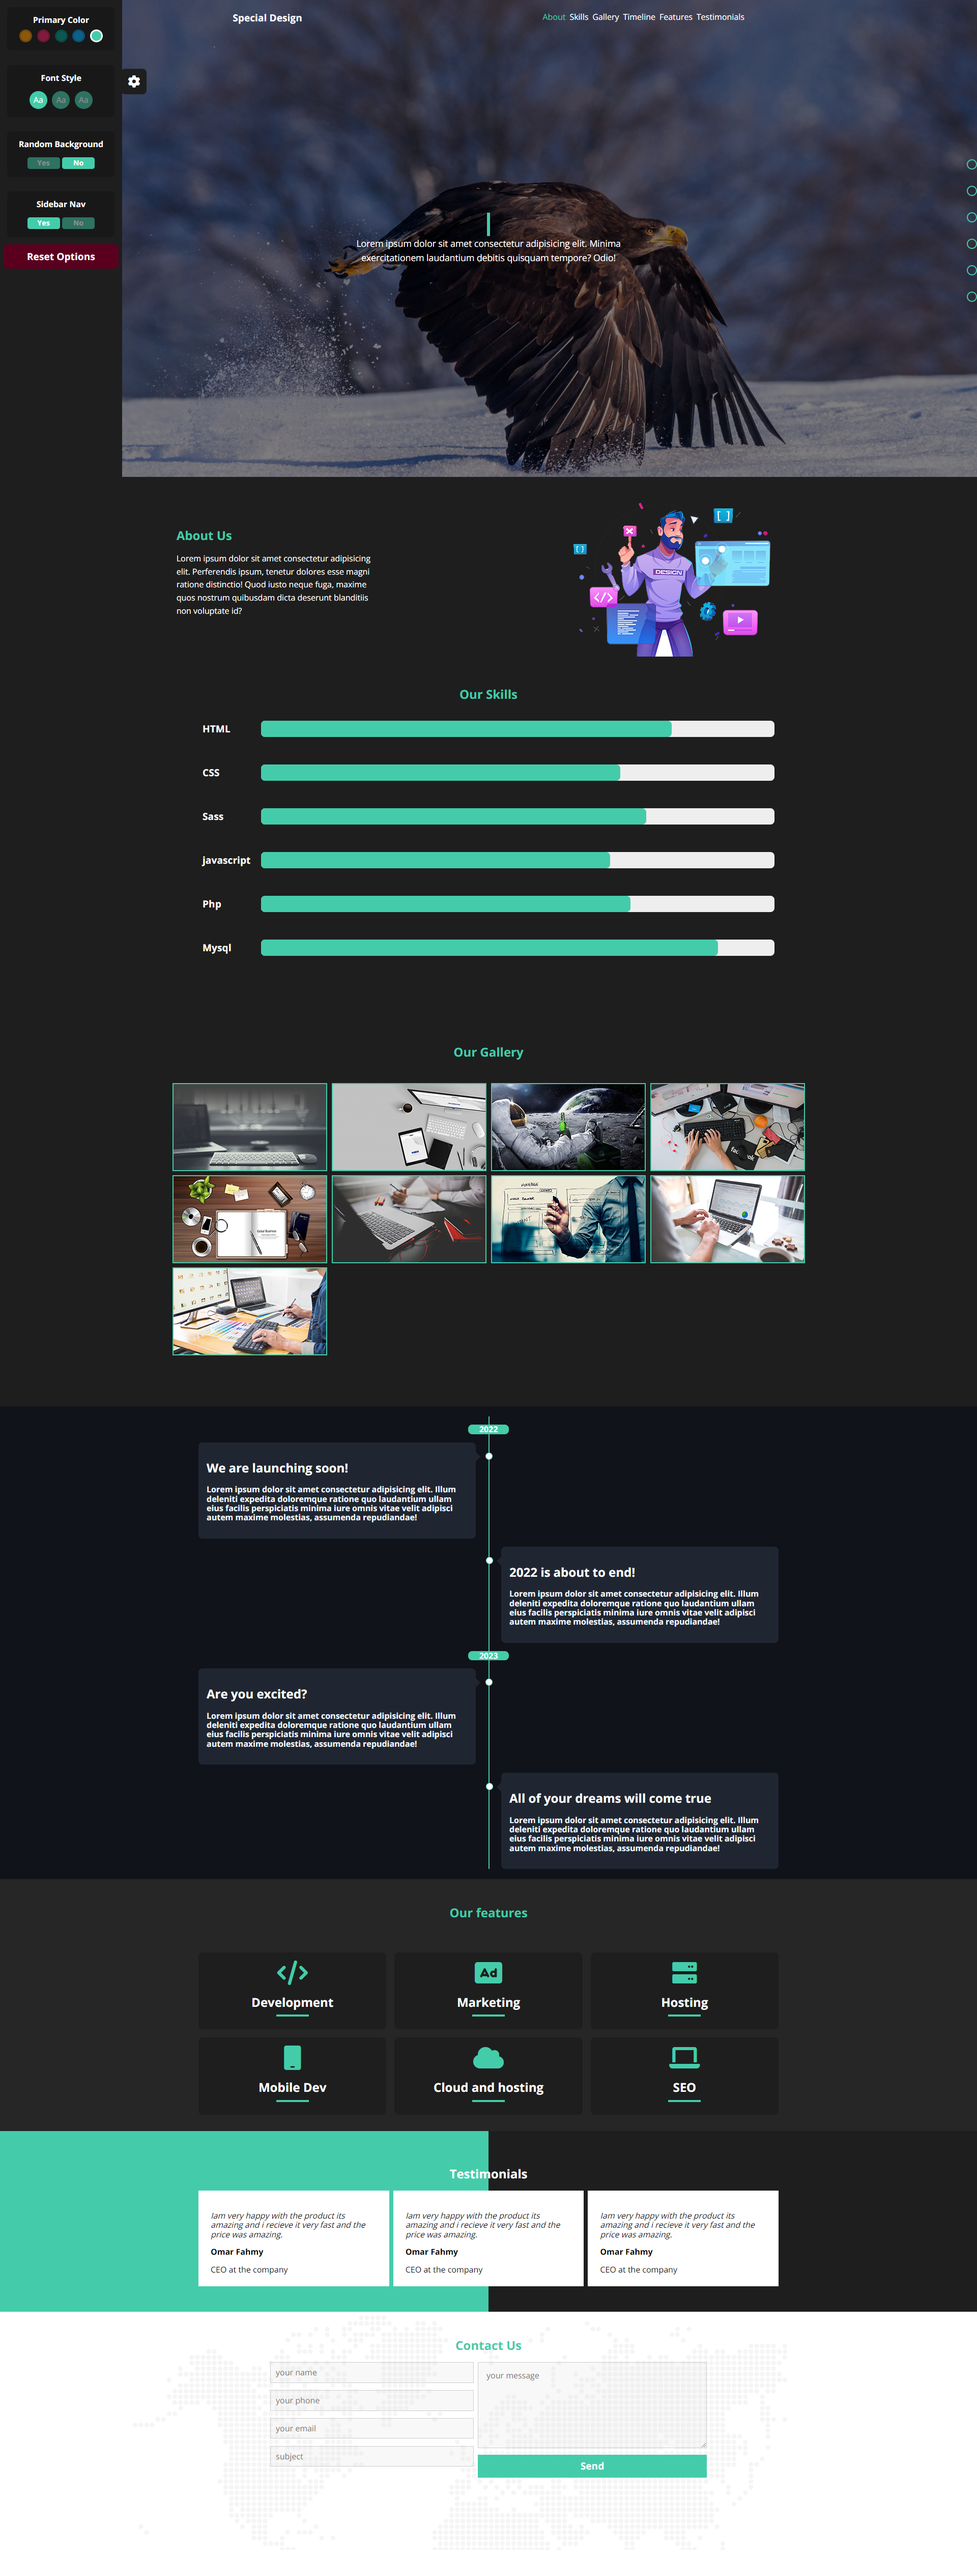
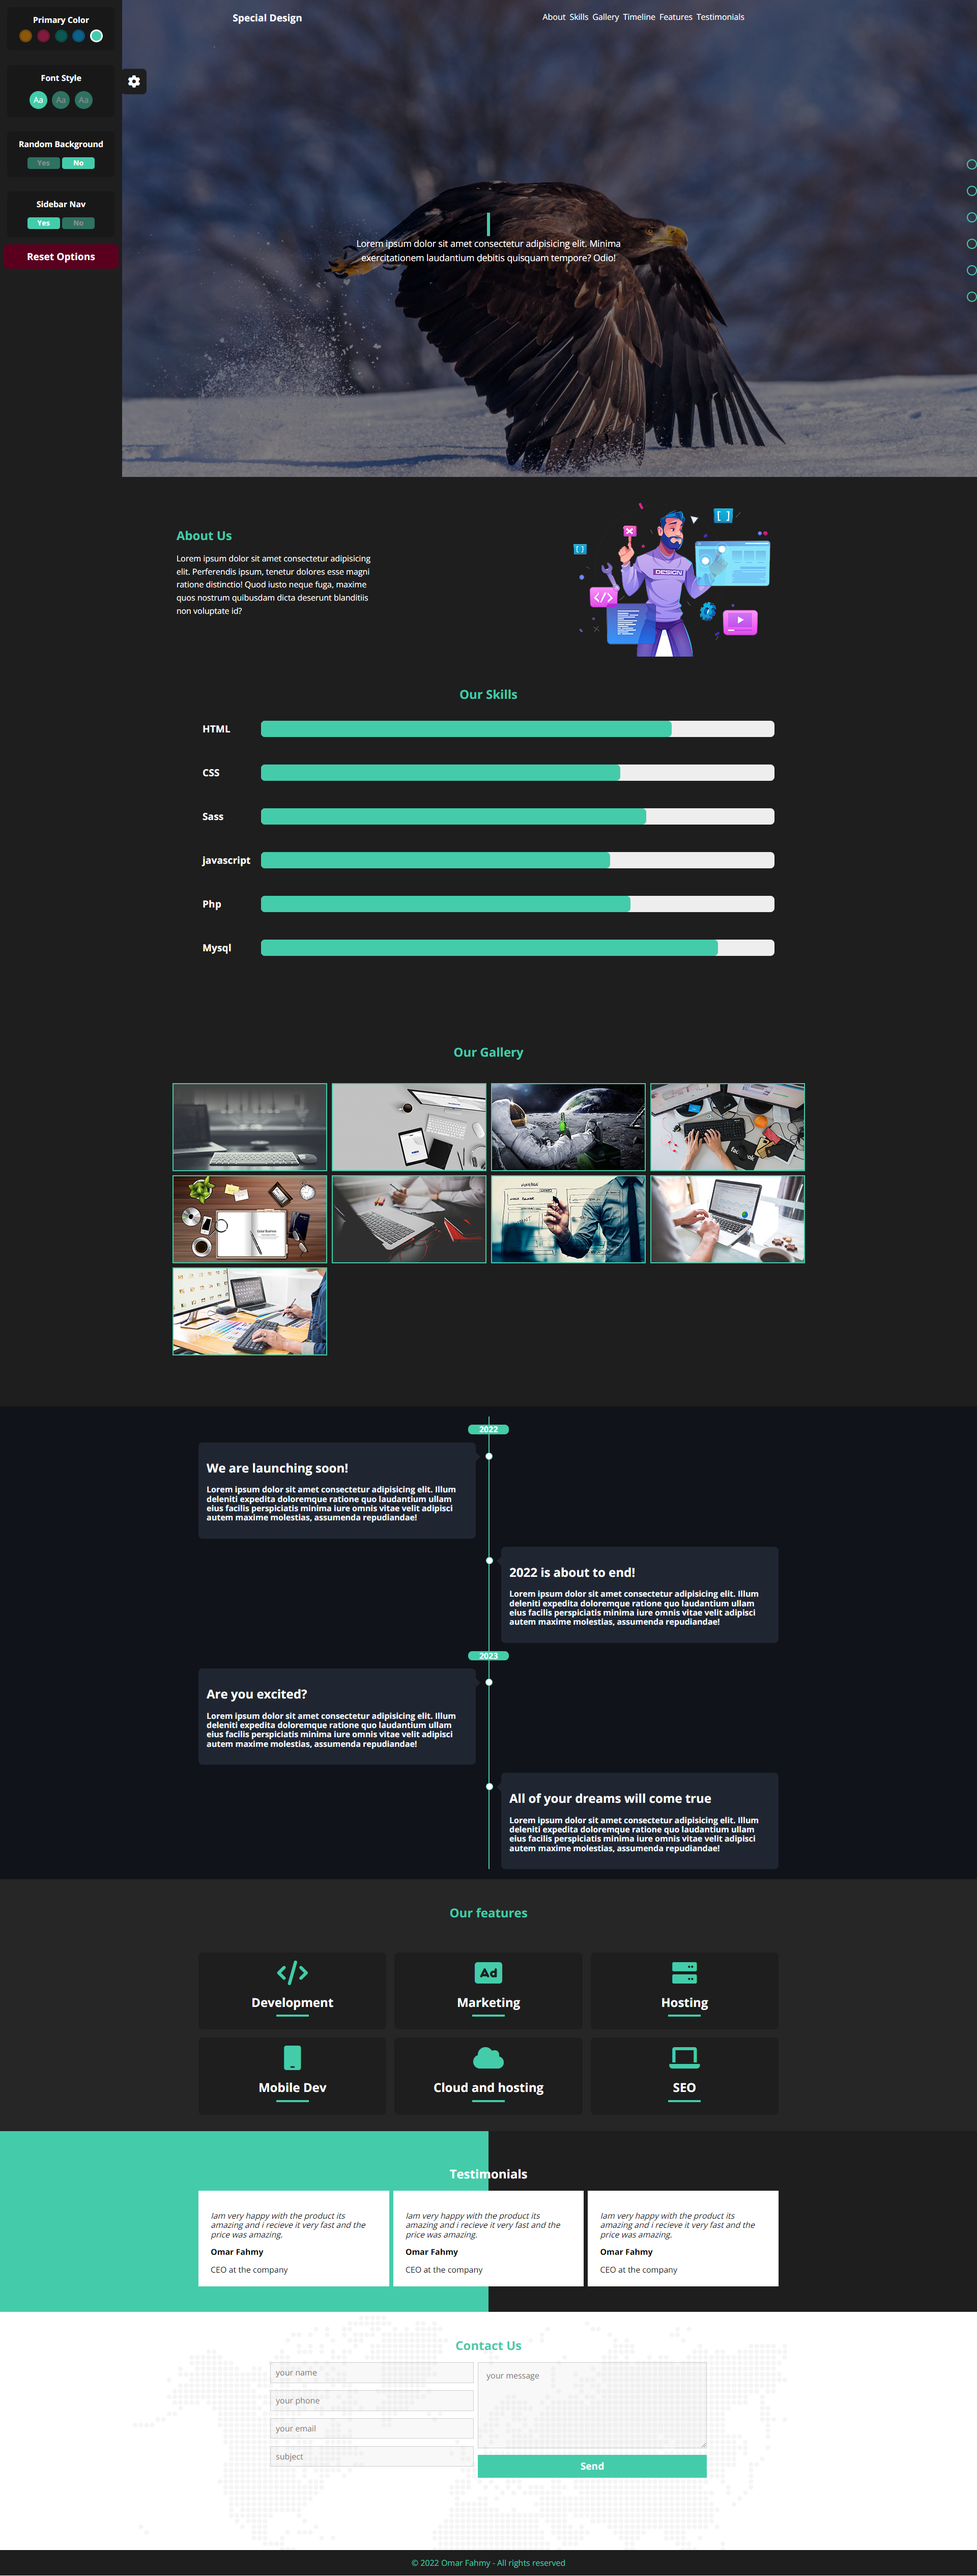
added mobile navigation

diff --git a/Sass/main.css b/Sass/main.css
@@ -1202,10 +1202,106 @@ a {
   outline: 1px solid var(--primary-color);
 }
 
+.footer {
+  text-align: center;
+  background-color: var(--section-color);
+  color: var(--primary-color);
+  padding: 1rem;
+}
+
 @media (max-width: 767px) {
   /* Start Landing Section*/
-  .nav {
+  .header {
+    -webkit-box-pack: justify;
+        -ms-flex-pack: justify;
+            justify-content: space-between;
+    -webkit-box-align: center;
+        -ms-flex-align: center;
+            align-items: center;
+  }
+  .nav_links {
     display: none;
+  }
+  .nav_mobile {
+    display: block;
+    position: relative;
+    width: 3rem;
+    background: none;
+    border: none;
+    cursor: pointer;
+  }
+  .nav_mobile .mobile_open-nav {
+    font-size: 2rem;
+    color: white;
+  }
+  .mobile-nav {
+    display: -webkit-box;
+    display: -ms-flexbox;
+    display: flex;
+    -webkit-box-orient: vertical;
+    -webkit-box-direction: normal;
+        -ms-flex-direction: column;
+            flex-direction: column;
+    position: fixed;
+    z-index: 99999;
+    -webkit-box-pack: center;
+        -ms-flex-pack: center;
+            justify-content: center;
+    left: 0;
+    top: 0;
+    width: 100%;
+    height: 100%;
+    background-color: #333;
+    -webkit-transition: var(--primary-transition);
+    transition: var(--primary-transition);
+    -webkit-transform: translate(-100%);
+            transform: translate(-100%);
+  }
+  .mobile-nav.active {
+    -webkit-transform: translate(0%);
+            transform: translate(0%);
+  }
+  .mobile-nav_links {
+    -webkit-box-align: center;
+        -ms-flex-align: center;
+            align-items: center;
+    -webkit-box-orient: vertical;
+    -webkit-box-direction: normal;
+        -ms-flex-direction: column;
+            flex-direction: column;
+  }
+  .mobile-nav_links li {
+    margin-bottom: 3rem;
+  }
+  .mobile-nav_link a {
+    font-size: 2rem;
+    color: white;
+    -webkit-transition: var(--primary-transition);
+    transition: var(--primary-transition);
+  }
+  .mobile-nav_link a:hover {
+    color: var(--primary-color);
+  }
+  .mobile-nav_close {
+    color: var(--primary-color);
+    position: fixed;
+    top: 20px;
+    right: 20px;
+    font-size: 2rem;
+    cursor: pointer;
+    border: 1px solid var(--primary-color);
+    width: 50px;
+    height: 50px;
+    display: -webkit-box;
+    display: -ms-flexbox;
+    display: flex;
+    -webkit-box-pack: center;
+        -ms-flex-pack: center;
+            justify-content: center;
+    -webkit-box-align: center;
+        -ms-flex-align: center;
+            align-items: center;
+    border-radius: 50%;
   }
   .landing_title {
     font-size: 1.5rem;
@@ -1253,5 +1349,17 @@ a {
     gap: 1rem;
   }
   /* End Contact Us Section */
+  .footer {
+    margin-top: 7rem;
+  }
+}
+
+@media (min-width: 767px) {
+  .nav_mobile {
+    display: none;
+  }
+  .mobile-nav {
+    display: none;
+  }
 }
 /*# sourceMappingURL=main.css.map */

diff --git a/index.html b/index.html
@@ -103,7 +103,7 @@
           <nav class="nav">
             <ul class="nav_links flex">
               <li class="nav_link">
-                <a class="active" href="#about">About</a>
+                <a href="#about">About</a>
               </li>
               <li class="nav_link"><a href="#skills">Skills</a></li>
               <li class="nav_link"><a href="#gallery">Gallery</a></li>
@@ -111,8 +111,32 @@
               <li class="nav_link"><a href="#features">Features</a></li>
               <li class="nav_link"><a href="#Testimonials">Testimonials</a></li>
             </ul>
+
+            <button aria-label=" mobile btn" class="nav_mobile">
+              <i
+                aria-label="open nav"
+                class="fa-solid fa-bars mobile_open-nav"
+              ></i>
+            </button>
           </nav>
         </header>
+        <!-- mobile navigation -->
+        <nav aria-label="mobile navigation" class="mobile-nav">
+          <i class="fa-solid fa-xmark mobile-nav_close"></i>
+          <ul class="mobile-nav_links flex">
+            <li class="mobile-nav_link">
+              <a href="#about">About</a>
+            </li>
+            <li class="mobile-nav_link"><a href="#skills">Skills</a></li>
+            <li class="mobile-nav_link"><a href="#gallery">Gallery</a></li>
+            <li class="mobile-nav_link"><a href="#timeline">Timeline</a></li>
+            <li class="mobile-nav_link"><a href="#features">Features</a></li>
+            <li class="mobile-nav_link">
+              <a href="#Testimonials">Testimonials</a>
+            </li>
+          </ul>
+        </nav>
+        <!-- mobile navigation -->
         <div class="landing_text">
           <h1 class="landing_title">We are <span>Creative</span> agency</h1>
           <p class="landing_p">
@@ -403,6 +427,7 @@
                 type="text"
                 placeholder="your name"
                 name="username"
+                autocomplete="name"
                 required
                 aria-required="true"
               />
@@ -411,6 +436,7 @@
                 type="text"
                 placeholder="your phone"
                 name="phone"
+                autocomplete="mobile"
                 required
                 aria-required="true"
               />
@@ -419,6 +445,7 @@
                 type="email"
                 placeholder="your email"
                 name="email"
+                autocomplete="email"
                 required
                 aria-required="true"
               />
@@ -445,6 +472,7 @@
         </div>
       </section>
     </main>
+    <footer class="footer">© 2022 Omar Fahmy - All rights reserved</footer>
 
     <!-- Start Scroll To Top Button -->
 

diff --git a/Sass/layout/_breakpoints.scss b/Sass/layout/_breakpoints.scss
@@ -1,8 +1,76 @@
 @include respond-to("small") {
   /* Start Landing Section*/
 
-  .nav {
+  .header {
+    justify-content: space-between;
+    align-items: center;
+  }
+  .nav_links {
     display: none;
+  }
+  .nav_mobile {
+    display: block;
+    position: relative;
+    width: 3rem;
+    background: none;
+    border: none;
+    cursor: pointer;
+
+    .mobile_open-nav {
+      font-size: 2rem;
+      color: white;
+    }
+  }
+
+  .mobile-nav {
+    display: flex;
+    flex-direction: column;
+    position: fixed;
+    z-index: 99999;
+    justify-content: center;
+    left: 0;
+    top: 0;
+    width: 100%;
+    height: 100%;
+    background-color: #333;
+    transition: var(--primary-transition);
+    transform: translate(-100%);
+
+    &.active {
+      transform: translate(0%);
+    }
+    &_links {
+      align-items: center;
+      flex-direction: column;
+
+      & li {
+        margin-bottom: 3rem;
+      }
+    }
+    &_link a {
+      font-size: 2rem;
+      color: white;
+      transition: var(--primary-transition);
+
+      &:hover {
+        color: var(--primary-color);
+      }
+    }
+    &_close {
+      color: var(--primary-color);
+      position: fixed;
+      top: 20px;
+      right: 20px;
+      font-size: 2rem;
+      cursor: pointer;
+      border: 1px solid var(--primary-color);
+      width: 50px;
+      height: 50px;
+      display: flex;
+      justify-content: center;
+      align-items: center;
+      border-radius: 50%;
+    }
   }
   .landing_title {
     font-size: 1.5rem;
@@ -60,4 +128,17 @@
     gap: 1rem;
   }
   /* End Contact Us Section */
+
+  .footer {
+    margin-top: 7rem;
+  }
+}
+
+@media (min-width: 767px) {
+  .nav_mobile {
+    display: none;
+  }
+  .mobile-nav {
+    display: none;
+  }
 }

diff --git a/Javascript/main.js b/Javascript/main.js
@@ -11,6 +11,11 @@ const scrollTopBtn = document.querySelector(".scroll-top-btn");
 
 const sidebarBullets = document.querySelectorAll(".sidebar-nav_link");
 
+const openMobileBtn = document.querySelector(".nav_mobile");
+const closeMobileBtn = document.querySelector(".mobile-nav_close");
+const mobileNav = document.querySelector(".mobile-nav");
+const mobileNavLinks = document.querySelectorAll(".mobile-nav_link");
+
 // observer options
 const options = {
   root: document.querySelector("#scrollArea"),
@@ -103,3 +108,23 @@ const moveToClickedSection = (e) => {
 sidebarBullets.forEach((bullet) =>
   bullet.addEventListener("click", moveToClickedSection)
 );
+
+openMobileBtn.addEventListener("click", () => {
+  mobileNav.classList.add("active");
+});
+
+closeMobileBtn.onclick = () => {
+  mobileNav.classList.remove("active");
+};
+
+mobileNavLinks.forEach((link) => {
+  link.onclick = () => {
+    mobileNav.classList.remove("active");
+  };
+});
+
+document.addEventListener("keyup", (e) => {
+  if (e.key === "Escape") {
+    mobileNav.classList.toggle("active");
+  }
+});

diff --git a/Sass/main.scss b/Sass/main.scss
@@ -10,7 +10,6 @@
 
 /* ======= Import components files ======= */
 @import "components/title";
-@import "components/buttons";
 @import "components/popup";
 
 /* ======= Import layout files ======= */

diff --git a/Sass/layout/_footer.scss b/Sass/layout/_footer.scss
@@ -1,0 +1,6 @@
+.footer {
+  text-align: center;
+  background-color: var(--section-color);
+  color: var(--primary-color);
+  padding: 1rem;
+}
